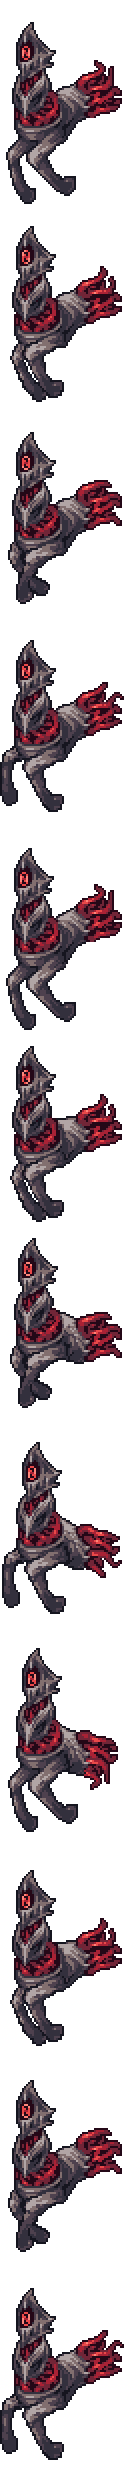
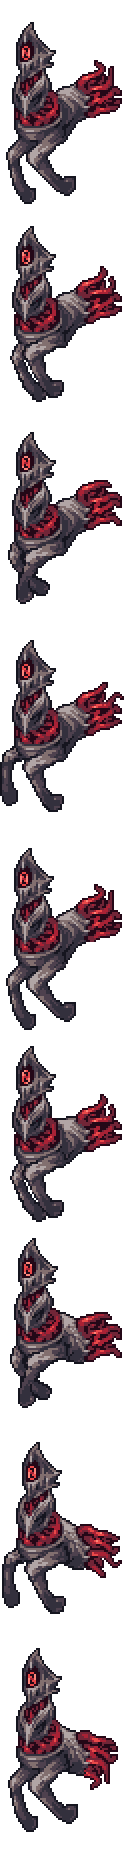
Start of sag reworks

diff --git a/NPCs/Bosses/Sag/Sag.cs b/NPCs/Bosses/Sag/Sag.cs
@@ -7,7 +7,7 @@ using Terraria.ModLoader;
 using BaseMod;
 using System.IO;
 
-namespace AAMod.NPCs.Bosses.Sagittarius
+namespace AAMod.NPCs.Bosses.Sag
 {
     [AutoloadBossHead]
     public class Sag : ModNPC
@@ -15,7 +15,7 @@ namespace AAMod.NPCs.Bosses.Sagittarius
 		public override void SetStaticDefaults()
 		{
 			DisplayName.SetDefault("Sagittarius");
-            Main.npcFrameCount[npc.type] = 12;
+            Main.npcFrameCount[npc.type] = 9;
 		}
 
 		public override void SetDefaults()
@@ -37,6 +37,7 @@ namespace AAMod.NPCs.Bosses.Sagittarius
         }
 
         public float[] internalAI = new float[4];
+        Vector2 targetPos;
         public override void SendExtraAI(BinaryWriter writer)
         {
             base.SendExtraAI(writer);
@@ -46,6 +47,8 @@ namespace AAMod.NPCs.Bosses.Sagittarius
                 writer.Write(internalAI[1]);
                 writer.Write(internalAI[2]);
                 writer.Write(internalAI[3]);
+                writer.Write(targetPos.X);
+                writer.Write(targetPos.Y);
             }
         }
 
@@ -58,8 +61,11 @@ namespace AAMod.NPCs.Bosses.Sagittarius
                 internalAI[1] = reader.ReadFloat();
                 internalAI[2] = reader.ReadFloat();
                 internalAI[3] = reader.ReadFloat();
+                targetPos.X = reader.ReadFloat();
+                targetPos.Y = reader.ReadFloat();
             }
         }
+
 
         public override void AI()
         {
@@ -69,9 +75,6 @@ namespace AAMod.NPCs.Bosses.Sagittarius
             }
 
             Player player = Main.player[npc.target];
-
-            if (!DeathCheck())
-                return;
 
             #region Direction & Alpha
 
@@ -94,22 +97,125 @@ namespace AAMod.NPCs.Bosses.Sagittarius
             }
 
             #endregion
-            
+
+            int speed = npc.life < npc.lifeMax / 3 ? 12 : 10;
+            float interval = npc.life < npc.lifeMax / 3 ? .018f : .015f;
+
+            switch ((int)npc.ai[0])
+            {
+                case 0:
+                    if (!DeathCheck())
+                        return;
+                    BaseAI.AISkull(npc, ref internalAI, true, speed, 400, interval, .025f); 
+                    break;
+
+                case 1:
+                    if (!DeathCheck())
+                        return;
+                    if (++npc.ai[1] > 30)
+                    {
+                        targetPos = player.Center;
+                        targetPos.X += 1000 * (npc.Center.X < targetPos.X ? -1 : 1);
+                        Movement(targetPos, 0.8f);
+                        if (npc.ai[1] > 180 || Math.Abs(npc.Center.Y - targetPos.Y) < 50) //initiate dash
+                        {
+                            npc.ai[0]++;
+                            npc.ai[1] = 0;
+                            npc.netUpdate = true;
+                            npc.velocity.X = -40 * (npc.Center.X < player.Center.X ? -1 : 1);
+                            npc.velocity.Y *= 0.1f;
+                        }
+                    }
+                    else
+                    {
+                        npc.velocity *= 0.9f; //decelerate briefly
+                    }
+                    npc.rotation = 0;
+                    break;
+
+                case 2:
+
+                    if (++npc.ai[1] > 240 || (Math.Sign(npc.velocity.X) > 0 ? npc.Center.X > player.Center.X + 900 : npc.Center.X < player.Center.X - 900))
+                    {
+                        npc.ai[0] = 0;
+                        npc.ai[1] = 0;
+                        npc.ai[2] = 0;
+                        npc.ai[3] = 0;
+                        npc.netUpdate = true;
+                    }
+                    break;
+                default:
+                    npc.ai[0] = 0;
+                    goto case 0;
 
 
+
+            }
             npc.rotation = 0;
             npc.noTileCollide = true;
         }
 
+        private void Movement(Vector2 targetPos, float speedModifier)
+        {
+            if (npc.Center.X < targetPos.X)
+            {
+                npc.velocity.X += speedModifier;
+                if (npc.velocity.X < 0)
+                    npc.velocity.X += speedModifier * 2;
+            }
+            else
+            {
+                npc.velocity.X -= speedModifier;
+                if (npc.velocity.X > 0)
+                    npc.velocity.X -= speedModifier * 2;
+            }
+            if (npc.Center.Y < targetPos.Y)
+            {
+                npc.velocity.Y += speedModifier;
+                if (npc.velocity.Y < 0)
+                    npc.velocity.Y += speedModifier * 2;
+            }
+            else
+            {
+                npc.velocity.Y -= speedModifier;
+                if (npc.velocity.Y > 0)
+                    npc.velocity.Y -= speedModifier * 2;
+            }
+            if (Math.Abs(npc.velocity.X) > 30)
+                npc.velocity.X = 30 * Math.Sign(npc.velocity.X);
+            if (Math.Abs(npc.velocity.Y) > 30)
+                npc.velocity.Y = 30 * Math.Sign(npc.velocity.Y);
+        }
+
         public override void FindFrame(int frameHeight)
         {
-            if (npc.velocity.X != 0)
+            int frameSpeed = npc.ai[0] == 2 ? 8 : 5;
+            if (npc.ai[0] != 1)
             {
-                if (npc.frameCounter++ > 8)
+                if (npc.velocity.X != 0)
+                {
+                    if (npc.frameCounter++ > frameSpeed)
+                    {
+                        npc.frameCounter = 0;
+                        npc.frame.Y += frameHeight;
+                        if (npc.frame.Y > frameHeight * 3)
+                        {
+                            npc.frame.Y = 0;
+                        }
+                    }
+                }
+            }
+            else
+            {
+                if (npc.frame.Y < frameHeight * 4)
+                {
+                    npc.frame.Y = frameHeight * 4;
+                }
+                if (npc.frameCounter++ > frameSpeed)
                 {
                     npc.frameCounter = 0;
                     npc.frame.Y += frameHeight;
-                    if (npc.frame.Y > frameHeight * 3)
+                    if (npc.frame.Y > frameHeight * 8)
                     {
                         npc.frame.Y = 0;
                     }
@@ -167,8 +273,8 @@ namespace AAMod.NPCs.Bosses.Sagittarius
 
         public override bool PreDraw(SpriteBatch sb, Color dColor)
         {
-            BaseDrawing.DrawTexture(sb, Main.npcTexture[npc.type], 0, npc.position, npc.width, npc.height, npc.scale, npc.rotation, npc.direction, 12, npc.frame, dColor, true);
-            BaseDrawing.DrawTexture(sb, mod.GetTexture("Glowmasks/Sagittarius_Glow"), 0, npc.position, npc.width, npc.height, npc.scale, npc.rotation, npc.direction, 12, npc.frame, ColorUtils.COLOR_GLOWPULSE, true);
+            BaseDrawing.DrawTexture(sb, Main.npcTexture[npc.type], 0, npc.position, npc.width, npc.height, npc.scale, npc.rotation, npc.direction, 9, npc.frame, dColor, true);
+            BaseDrawing.DrawTexture(sb, mod.GetTexture("Glowmasks/Sag_Glow"), 0, npc.position, npc.width, npc.height, npc.scale, npc.rotation, npc.direction, 9, npc.frame, ColorUtils.COLOR_GLOWPULSE, true);
             return false;
         }
 

diff --git a/NPCs/Bosses/AH/Ashe/Ashe.cs b/NPCs/Bosses/AH/Ashe/Ashe.cs
@@ -280,8 +280,7 @@ namespace AAMod.NPCs.Bosses.AH.Ashe
             {
                 if(npc.ai[2]++ > 5)
                 {
-                    Vector2 Runeposition = new Vector2(0,0);
-                    Runeposition = npc.Center + new Vector2((250f + 4f * Main.rand.Next(-7, 7)) * (float)Math.Sin(5.18f * Main.rand.Next(30) * 3.1415926f), (250f + 4f * Main.rand.Next(-7, 7)) * (float)Math.Cos(5.18f * Main.rand.Next(30) * 3.1415926f));
+                    Vector2 Runeposition = npc.Center + new Vector2((250f + 4f * Main.rand.Next(-7, 7)) * (float)Math.Sin(5.18f * Main.rand.Next(30) * 3.1415926f), (250f + 4f * Main.rand.Next(-7, 7)) * (float)Math.Cos(5.18f * Main.rand.Next(30) * 3.1415926f));
                     
                     float RunepositionX = Runeposition.X;
                     float RunepositionY = Runeposition.Y;
